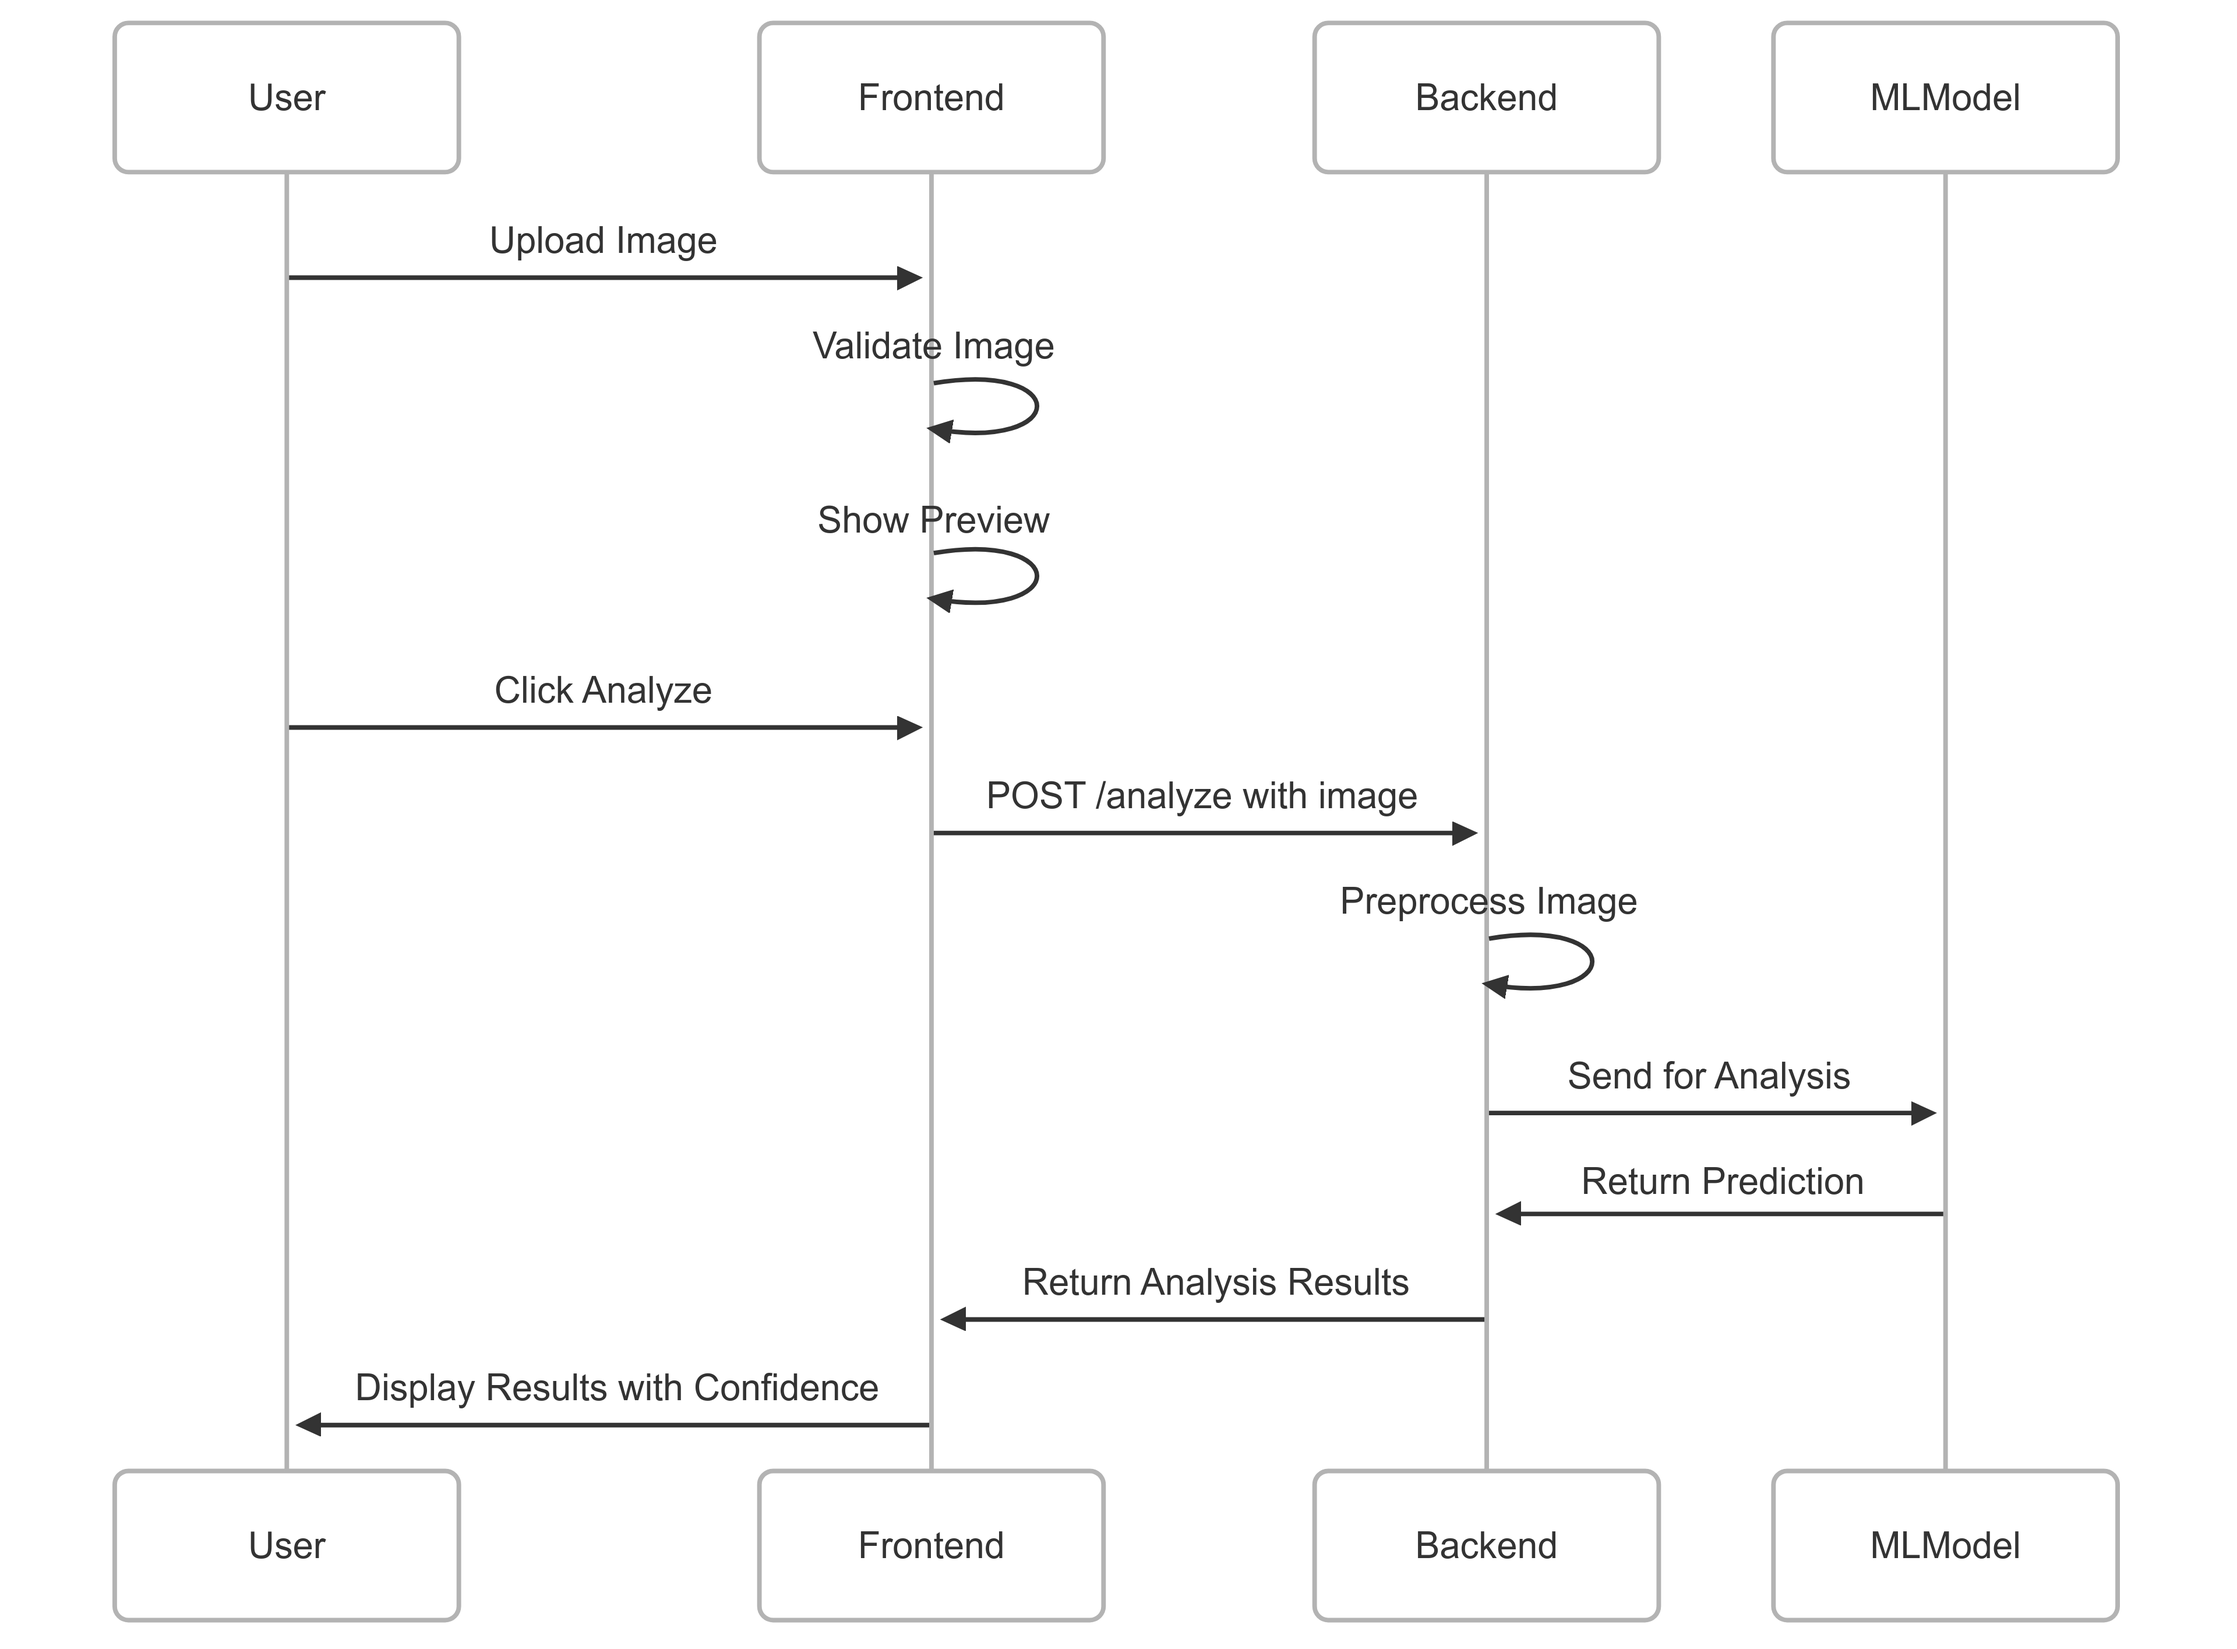
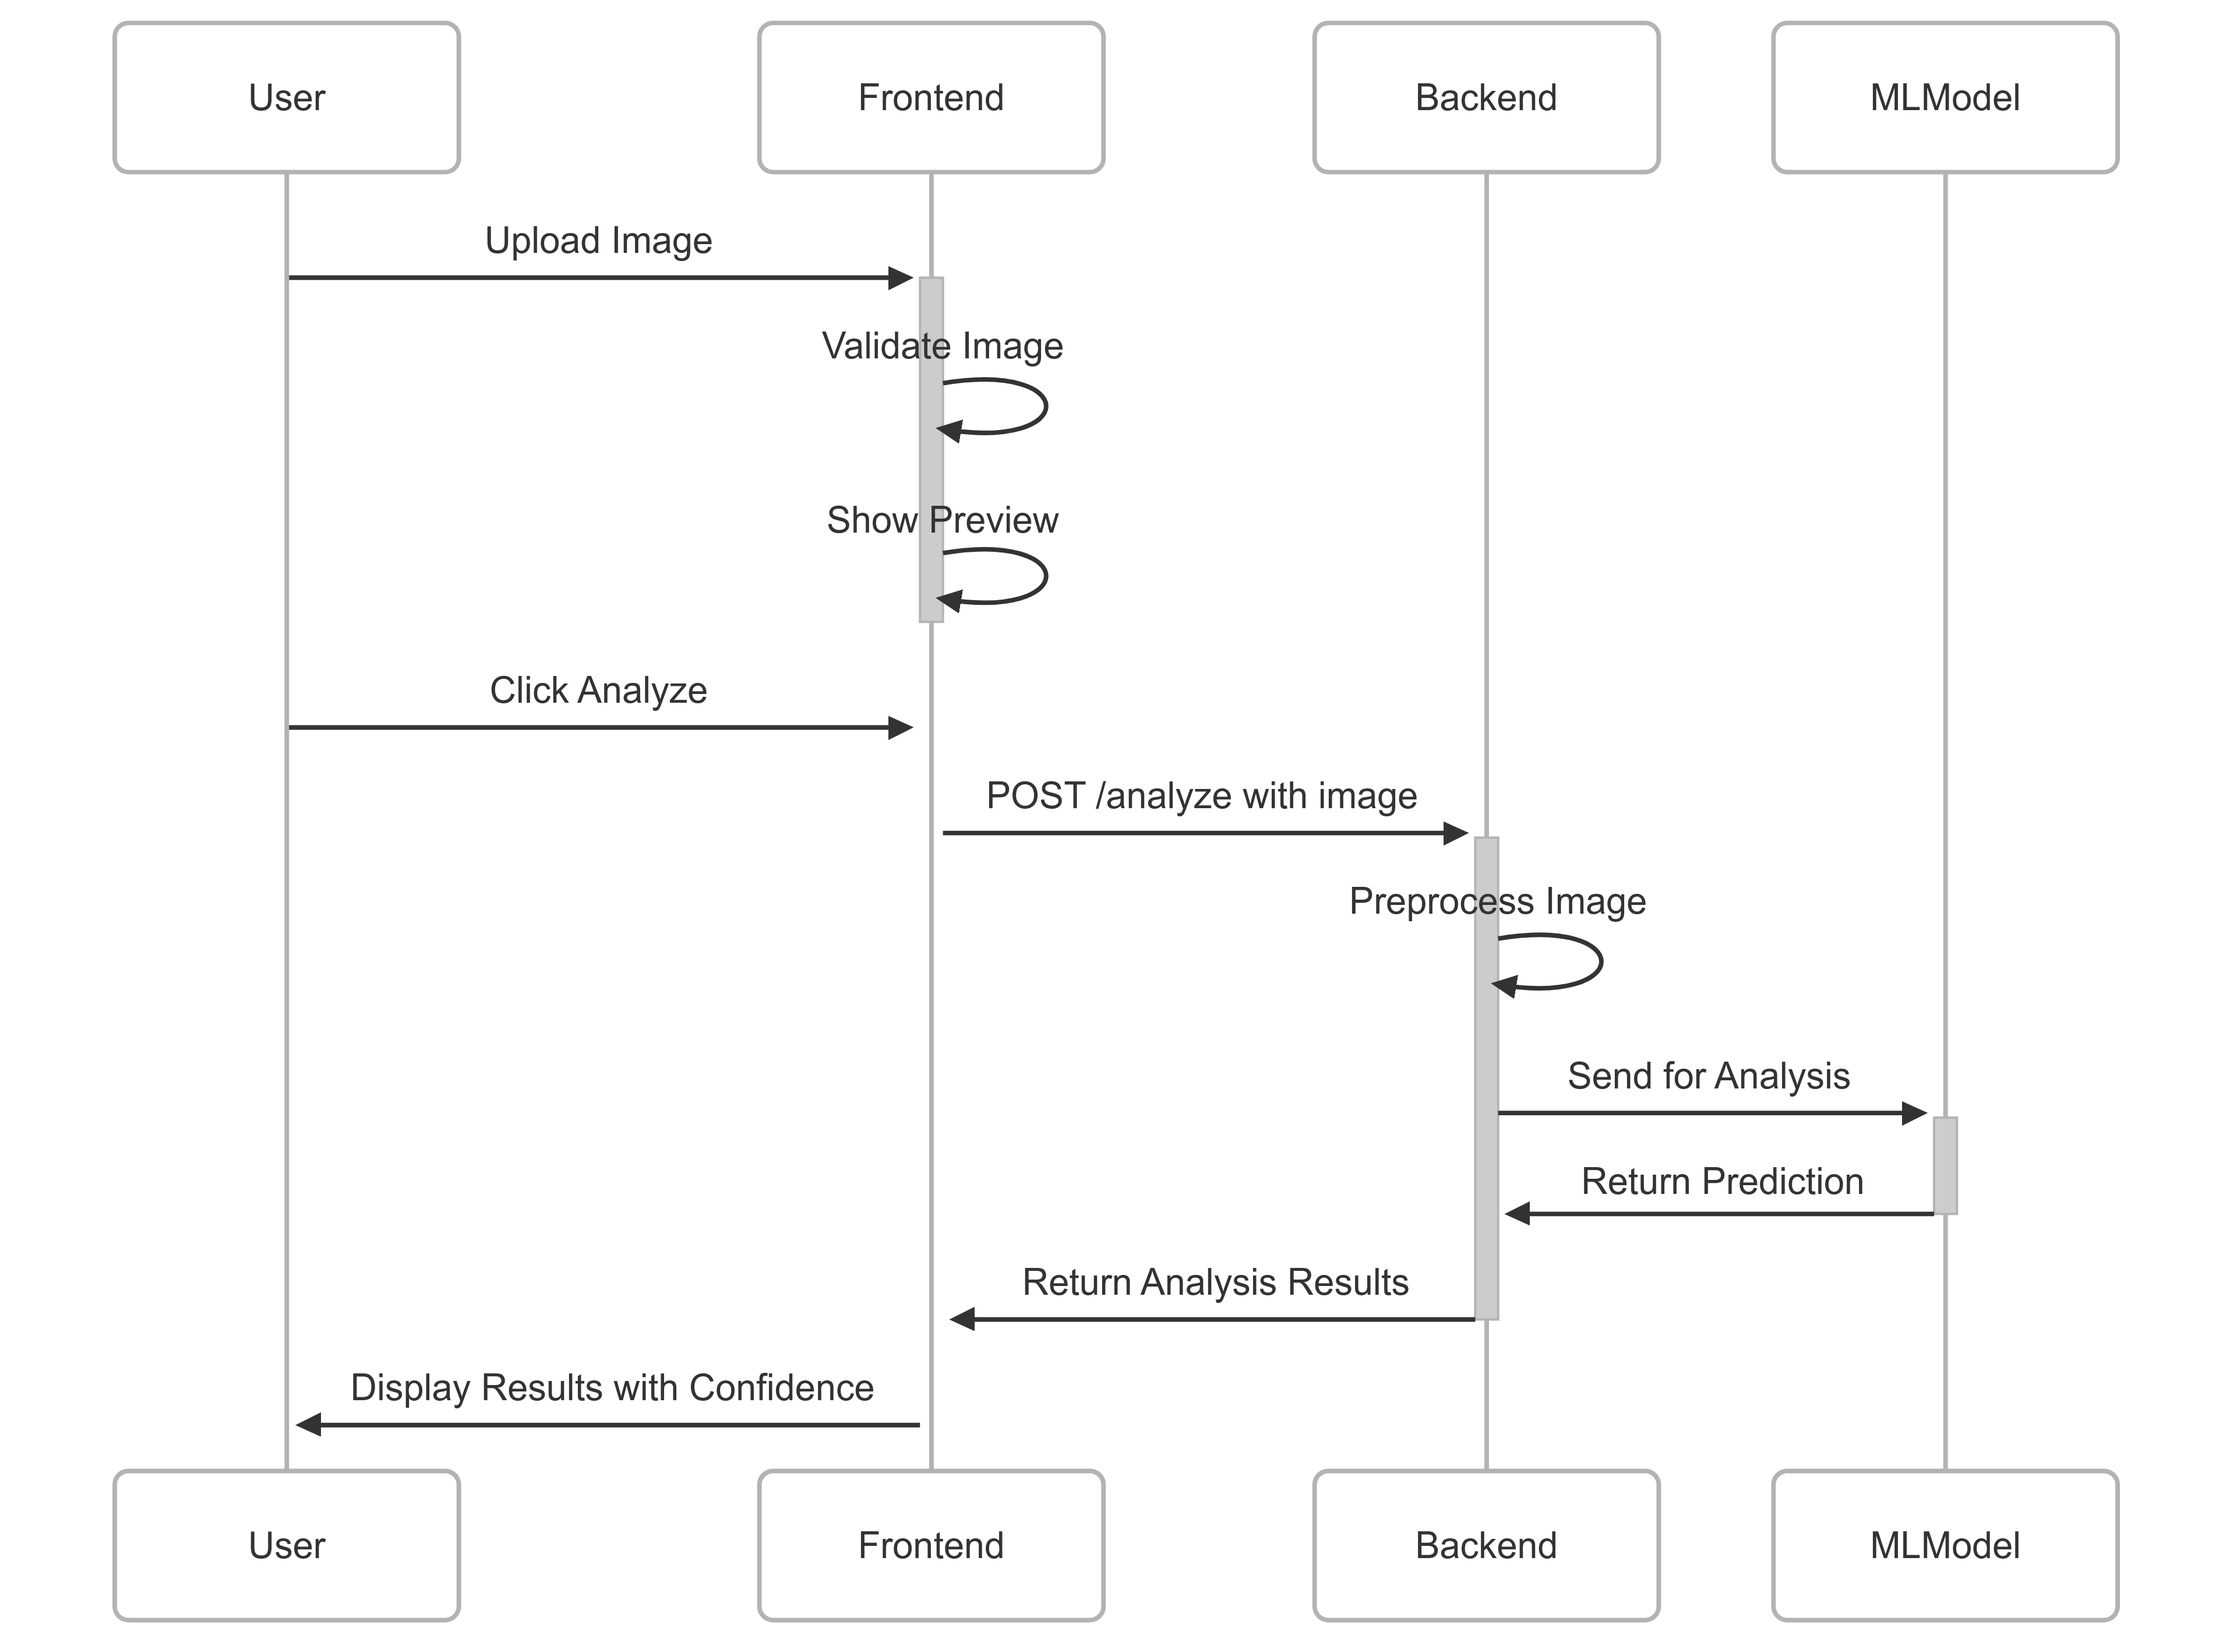
Refactor sequence diagram for clarity and update PNG representation

diff --git a/docs/sequence_diagram.md b/docs/sequence_diagram.md
@@ -5,17 +5,17 @@ sequenceDiagram
     participant Backend
     participant MLModel
 
-    User->>Frontend: Upload Image
+    User->>+Frontend: Upload Image
     Frontend->>Frontend: Validate Image
-    Frontend->>Frontend: Show Preview
+    Frontend->>-Frontend: Show Preview
 
-    User->>Frontend: Click Analyze
-    Frontend->>Backend: POST /analyze with image
+    User->>+Frontend: Click Analyze
+    Frontend->>+Backend: POST /analyze with image
     Backend->>Backend: Preprocess Image
 
-    Backend->>MLModel: Send for Analysis
-    MLModel->>Backend: Return Prediction
+    Backend->>+MLModel: Send for Analysis
+    MLModel->>-Backend: Return Prediction
 
-    Backend->>Frontend: Return Analysis Results
+    Backend->>-Frontend: Return Analysis Results
     Frontend->>User: Display Results with Confidence
 ```
